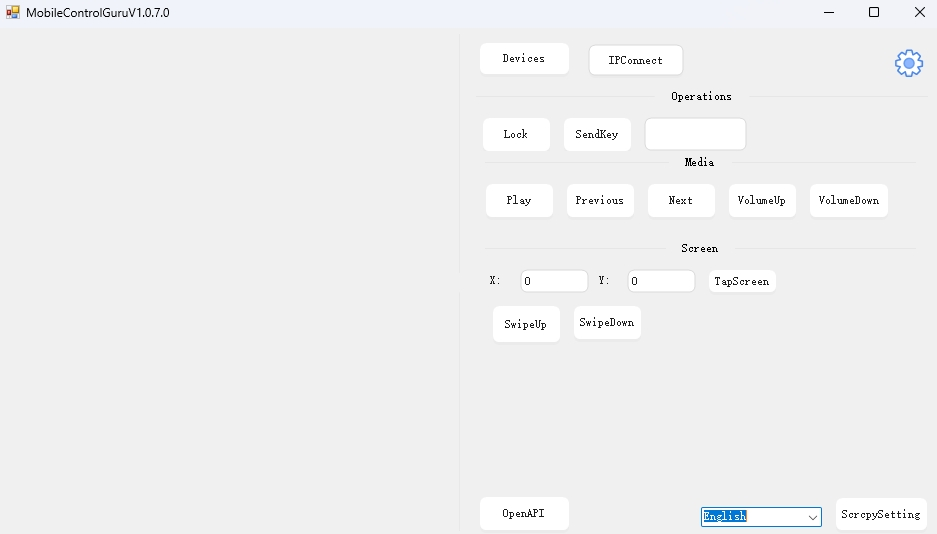
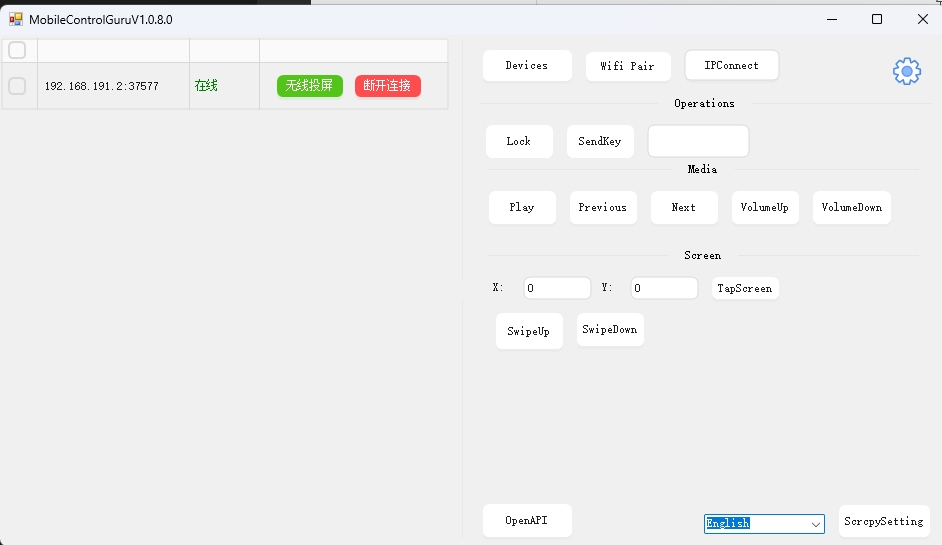
update

diff --git a/HotKeySetting.cs b/HotKeySetting.cs
@@ -48,7 +48,7 @@ namespace MobileControlGuru
                 ConfigHelp.SetSetting("hotkeys", GetSetting());
                 myHotKey.UnRegister();
                 myHotKey.Register();
-                MessageBox.Show("设置成功");
+                MessageBox.Show(resources.GetString("SaveInfo"));
             }
             catch(Exception ex)
             {

diff --git a/Docs/Update.md b/Docs/Update.md
@@ -5,7 +5,6 @@
 2. 增加无线授权方式（不用通过usb授权）
 3. 增加无线授权的API 
 
-
 ## V 1.0.7
 1. 添加英语支持
 
